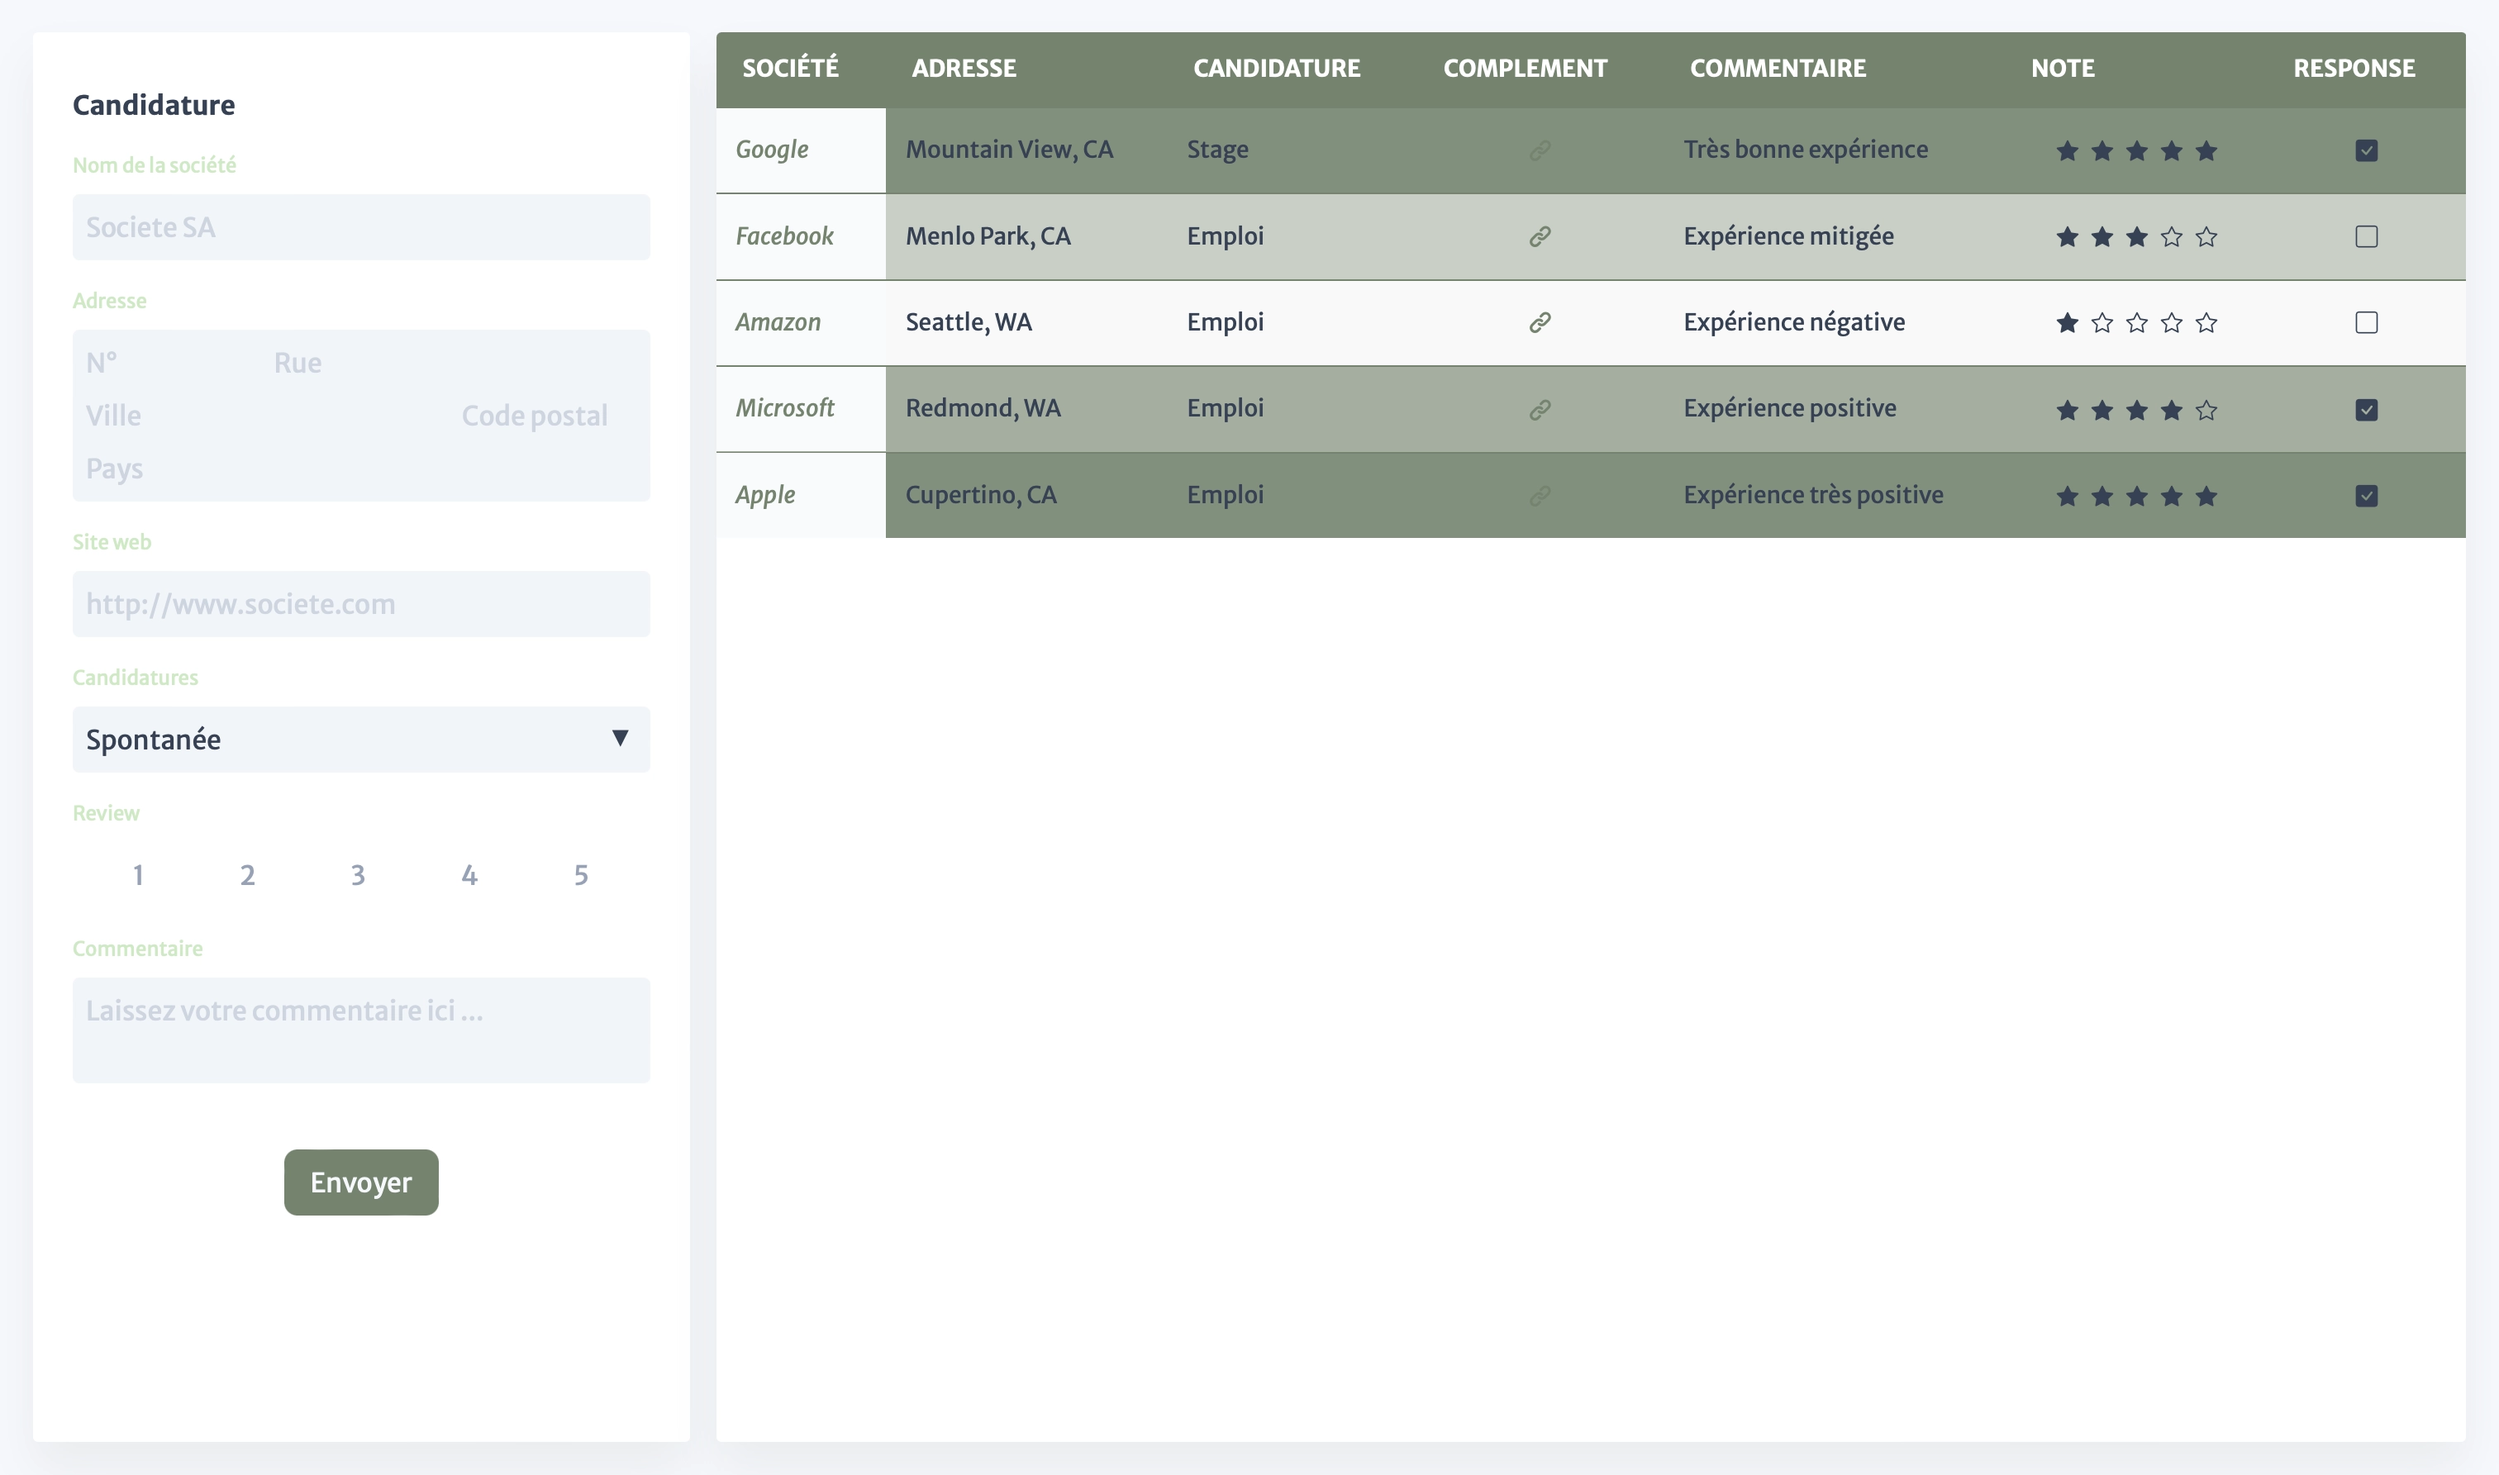
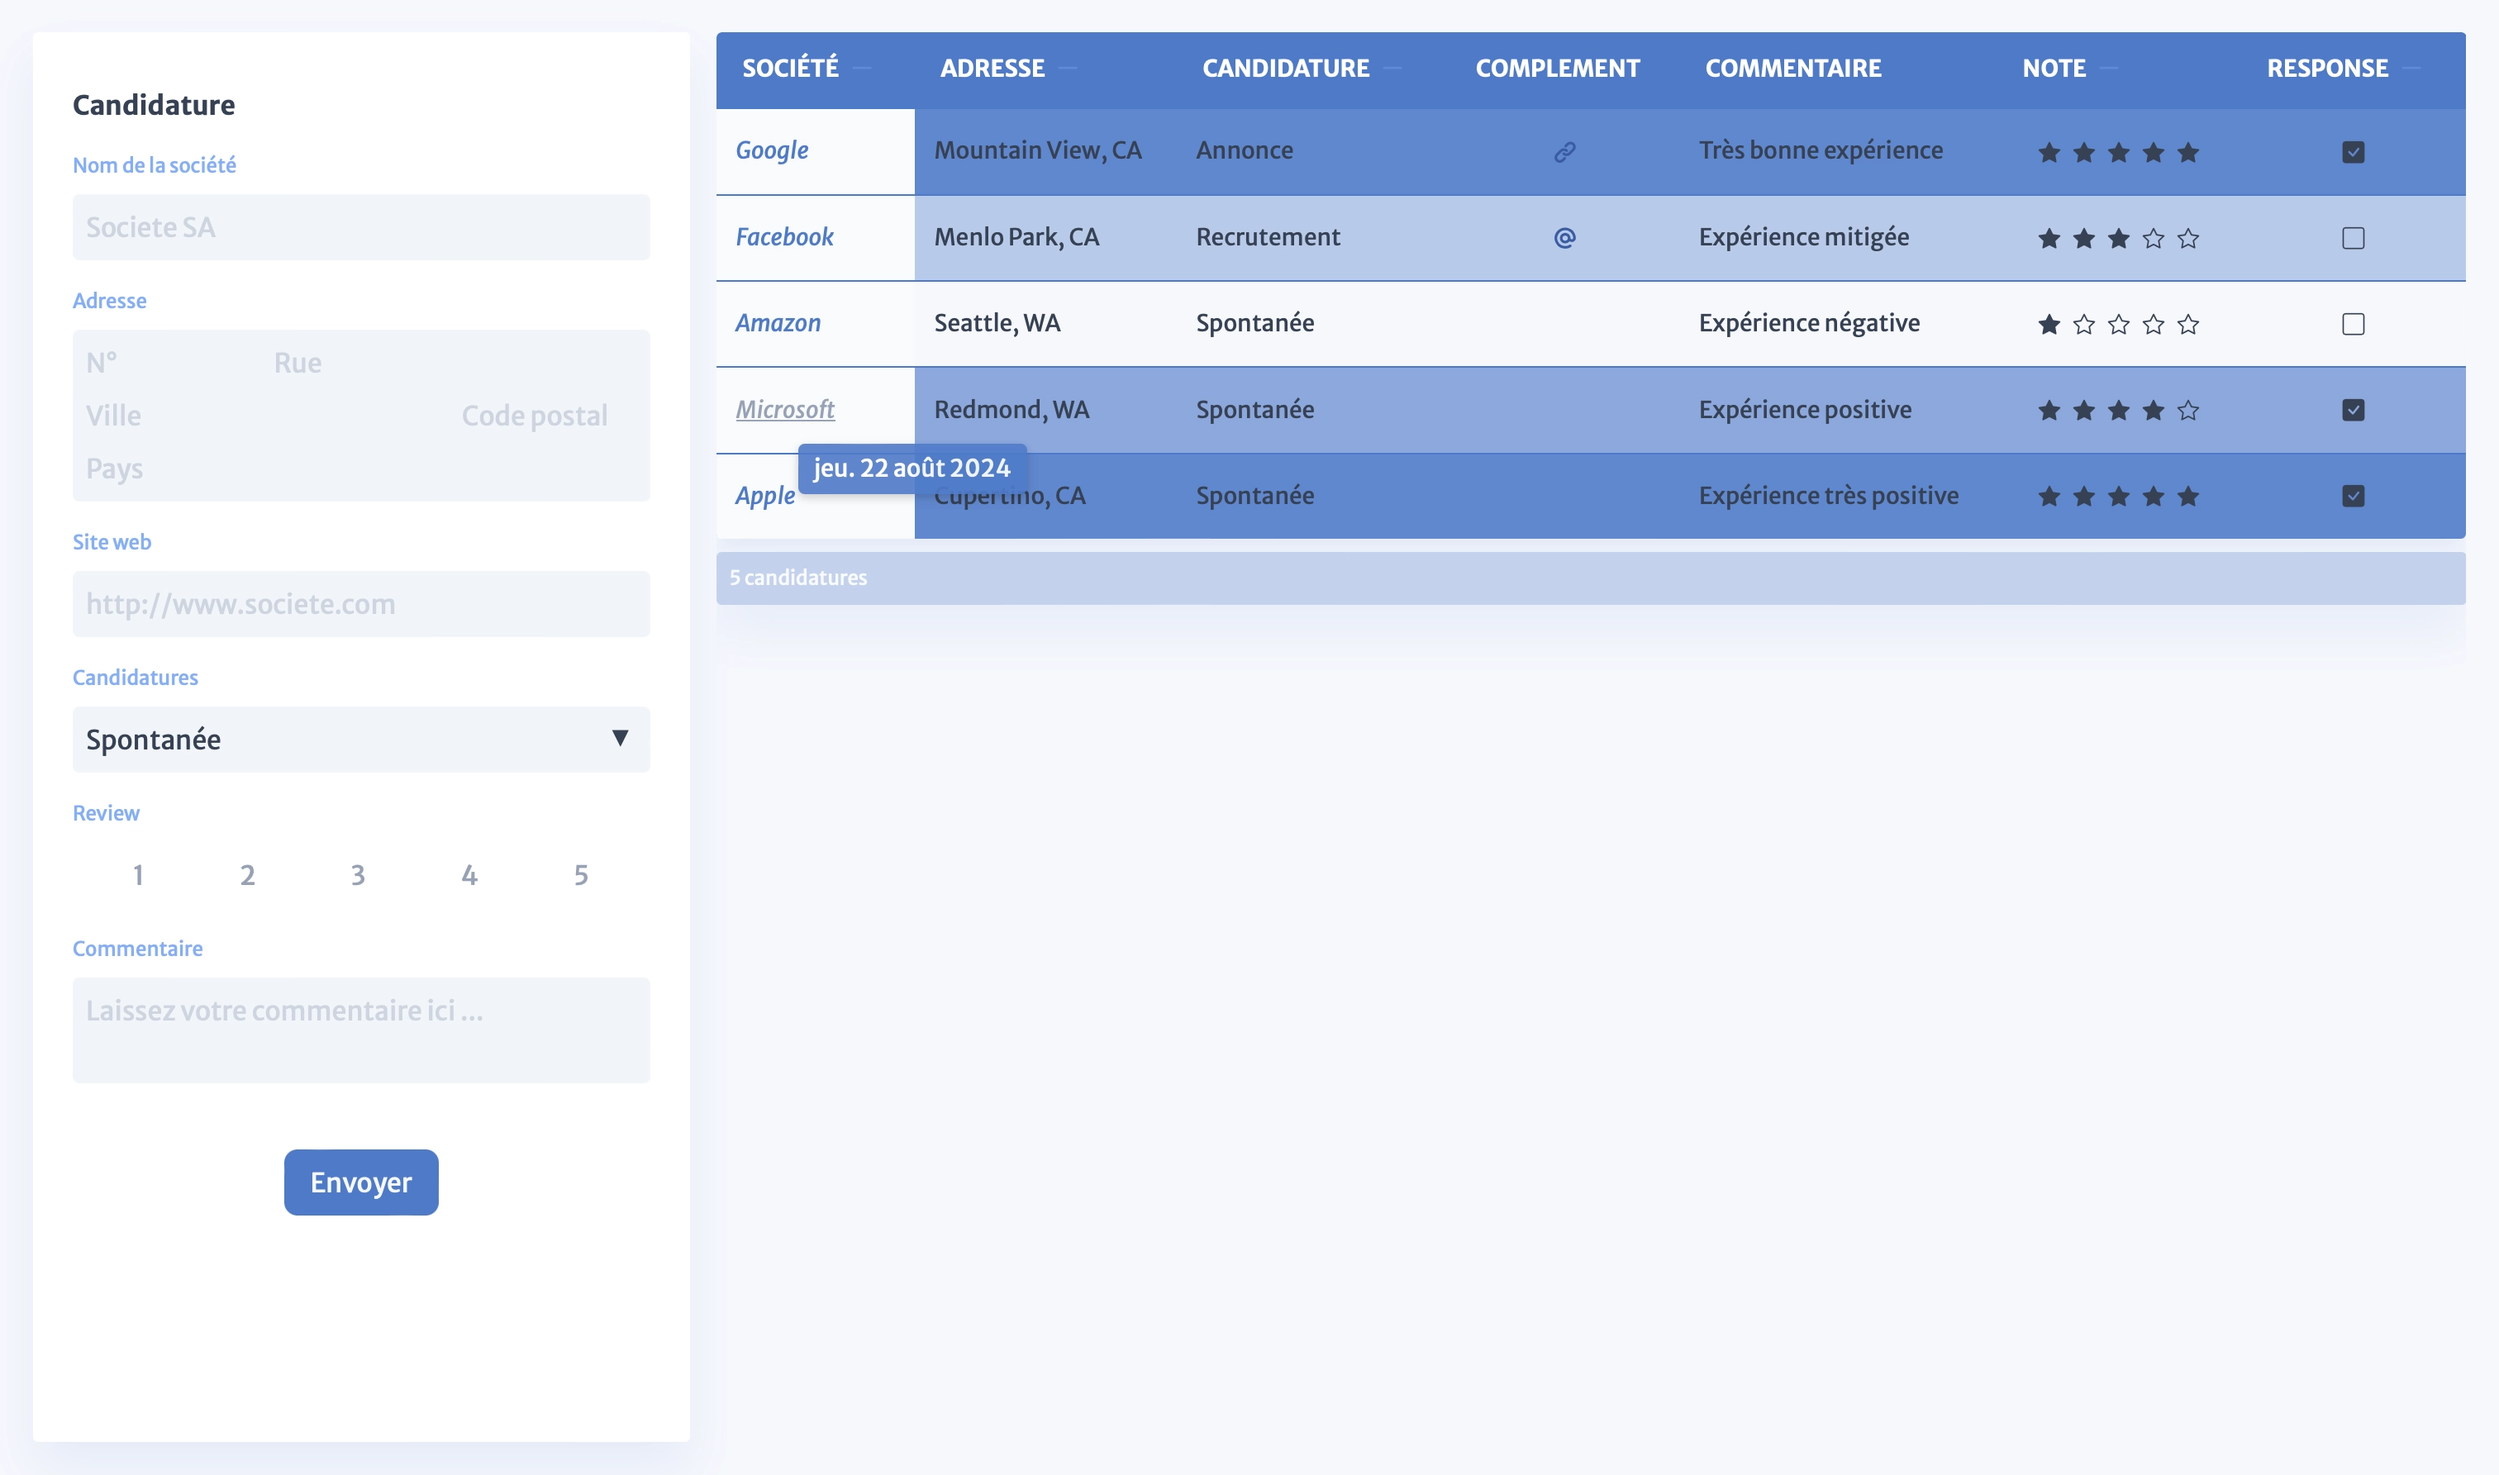
Entry count OK CSS color thème OK

diff --git a/frontend/src/components/Tabler/Table.vue b/frontend/src/components/Tabler/Table.vue
@@ -29,46 +29,53 @@ const MOCKUP_DATA = [
   {
     company_name: 'Google',
     company_location: 'Mountain View, CA',
-    application_type: 'Stage',
+    application_type: 'Annonce',
+    company_website: 'https://www.google.com',
     application_type_optional: 'https://www.google.com',
     review_comment: 'Très bonne expérience',
     review_status: 5,
-    company_has_responded: true
+    company_has_responded: true,
+    application_date: new Date()
   },
   {
     company_name: 'Facebook',
     company_location: 'Menlo Park, CA',
-    application_type: 'Emploi',
-    application_type_optional: 'https://www.facebook.com',
+    application_type: 'Recrutement',
+    company_website: 'https://www.facebook.com',
+    application_type_optional: 'facebook@facebook.com',
     review_comment: 'Expérience mitigée',
     review_status: 3,
-    company_has_responded: false
+    company_has_responded: false,
+    application_date: new Date()
   },
   {
     company_name: 'Amazon',
     company_location: 'Seattle, WA',
-    application_type: 'Emploi',
-    application_type_optional: 'https://www.amazon.com',
+    application_type: 'Spontanée',
+    company_website: 'https://www.amazon.com',
     review_comment: 'Expérience négative',
     review_status: 1,
-    company_has_responded: false
+    company_has_responded: false,
+    application_date: new Date()
   }, {
     company_name: 'Microsoft',
     company_location: 'Redmond, WA',
-    application_type: 'Emploi',
-    application_type_optional: 'https://www.microsoft.com',
+    application_type: 'Spontanée',
+    company_website: 'https://www.microsoft.com',
     review_comment: 'Expérience positive',
     review_status: 4,
-    company_has_responded: true
+    company_has_responded: true,
+    application_date: new Date()
   },
   {
     company_name: 'Apple',
     company_location: 'Cupertino, CA',
-    application_type: 'Emploi',
-    application_type_optional: 'https://www.apple.com',
+    application_type: 'Spontanée',
+    company_website: 'https://www.apple.com',
     review_comment: 'Expérience très positive',
     review_status: 5,
-    company_has_responded: true
+    company_has_responded: true,
+    application_date: new Date()
   }
 ]
 
@@ -243,6 +250,8 @@ const orderBy = (type) => {
     <aside class="section__box-md table__footer">
       <div class="table__footer__background">
         <p colspan="7" class="table__footer__content ">{{ computedCompagnies.length }} candidatures</p>
+<!--        <p colspan="7" class="table__footer__content ">{{ MOCKUP_DATA.length }} candidatures</p>-->
+
       </div>
     </aside>
     <InfoBulle v-if="INFO.state" :date="INFO.date"/>
@@ -318,9 +327,6 @@ table {
   left: 0;
   overflow: hidden;
   max-height: 2rem;
-
-
-
 }
 .table__footer__background {
   background: rgba(var(--primary-rgb), 0.3);
@@ -329,7 +335,6 @@ table {
   display: flex;
   align-items: center;
   padding: 0 0.5rem;
-  //justify-content: center;
 }
 .table__footer__content{
   font-size: 0.75rem;

diff --git a/frontend/src/assets/style/style.css b/frontend/src/assets/style/style.css
@@ -3,24 +3,42 @@
 :root {
     --text: #060d19;
     --background: #f5f8fc;
-    /*--primary: #3f7bcf;*/
-    /*--primary-rgb: 63, 123, 207;*/
-
-    /*--primary: #CFF2C9;*/
-    /*--primary-rgb: 207, 242, 201;*/
-
     --primary-opacity: 0.3;
-
-    --primary: #71846D;
-    --primary-rgb: 113, 132, 109;
     --primary-faded: rgba(var(--primary-rgb), var(--primary-opacity));
 
+    /* RED */
+    --primary: #F56470;
+    --primary-rgb: 245, 182, 187;
+    --primary-dark: #E55C63;
+    --accent: #F5B6BB;
+    --accent-rgb: 245, 182, 187;
+
+    /* PURPLE */
+    /*
+    --primary: #313CA3;
+    --primary-rgb: 62, 77, 207;
+    --primary-dark: #2A2F8E;
+    --accent: #9A92FF;
+    --accent-rgb: 154, 146, 255;
+    */
+
+    /* BLUE*/
+    /*
+    --primary: #3F7BCF;
+    --primary-rgb: 63, 123, 207;
+    --primary-dark: #2E5DA8;
+    --accent: #78B0FF;
+    --accent-rgb: 120, 176, 255;
+    */
+
+    /* GREEN */
+    /*
+    --primary: #ADC98D;
+    --primary-rgb: 173, 201, 141;
+    --primary-dark: #8AA170;
     --accent: #C8EAC2;
     --accent-rgb: 200, 234, 194;
-
-    --secondary: #F56470;
-    --secondary-bis: #F5B6BB;
-    /*--accent: #c1d967;*/
+    */
 
     /* Tailwind slate */
     --off-white-light: #f8fafc;

diff --git a/frontend/src/components/Tabler/components/Link.vue b/frontend/src/components/Tabler/components/Link.vue
@@ -58,12 +58,13 @@ const handleMouseLeave = () => {
         rel="noopener noreferrer"
         :class="{ 'table__cols-icons__flex': icons }"
     >
-      <v-icon v-if="computedIcon" :name="computedIcon" class="icons" />
+      <v-icon v-if="computedIcon" :name="computedIcon" class="icons link__icons" />
       <span
           v-else
           @mouseenter="handleMouseEnter"
           @mouseleave="handleMouseLeave"
           style="cursor: pointer;"
+          class="link__text"
       >
         {{ name }}
       </span>
@@ -72,14 +73,28 @@ const handleMouseLeave = () => {
 
 <style scoped>
 a {
-  color: var(--primary);
   font-style: italic;
   text-align: left;
   text-decoration: none;
 }
 
-a:hover {
+.link__text {
+  color: var(--primary);
+}
+.link__text:hover {
   color: var(--off-gray-dark);
   text-decoration: underline;
+}
+.link__text:active {
+  color: var(--primary-faded);
+}
+.link__icons {
+  color: var(--primary-dark);
+}
+.link__icons:hover {
+  color: var(--off-white-light);
+}
+.link__icons:active {
+  color: var(--primary);
 }
 </style>

diff --git a/frontend/src/components/Tabler/components/OrderIcon.vue b/frontend/src/components/Tabler/components/OrderIcon.vue
@@ -37,7 +37,7 @@ const handleClick = () => {
   transform: scale(0.8);
 }
 .order__icons-minus {
-  color: var(--off-gray-dark);
+  color: rgba(var(--accent-rgb), 0.3);
 }
 .order__icons-button:hover {
   color: var(--accent);

diff --git a/README.md b/README.md
@@ -9,7 +9,13 @@ As part of my final internship at BeCode, I have the opportunity to explore Vue.
 - **Form**: Allows users to enter various data about the companies they are applying to, including a formatted address, website, review rating, etc.
 - **Table**: Displays the previously registered data in an organized manner for easy tracking.
   - Checkboxes allow to track if some society has responded yet .
-  - Application date display on society name hover.
+  - Application date display when society's name is hovered.
+  - Sorting by name, address, type of application, rating and response status.
+- **CSS** : Four themes colours are implemented in style.css file: 
+  - Red.
+  - Blue.
+  - Green.
+  - Purple.
 
 ### Technologies
 #### Frontend
